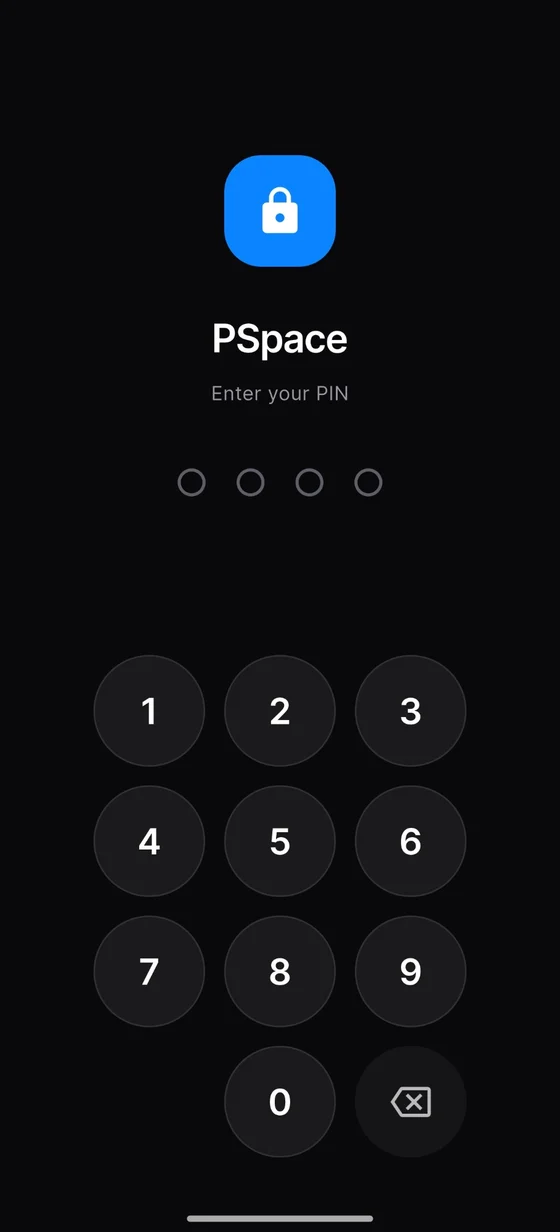
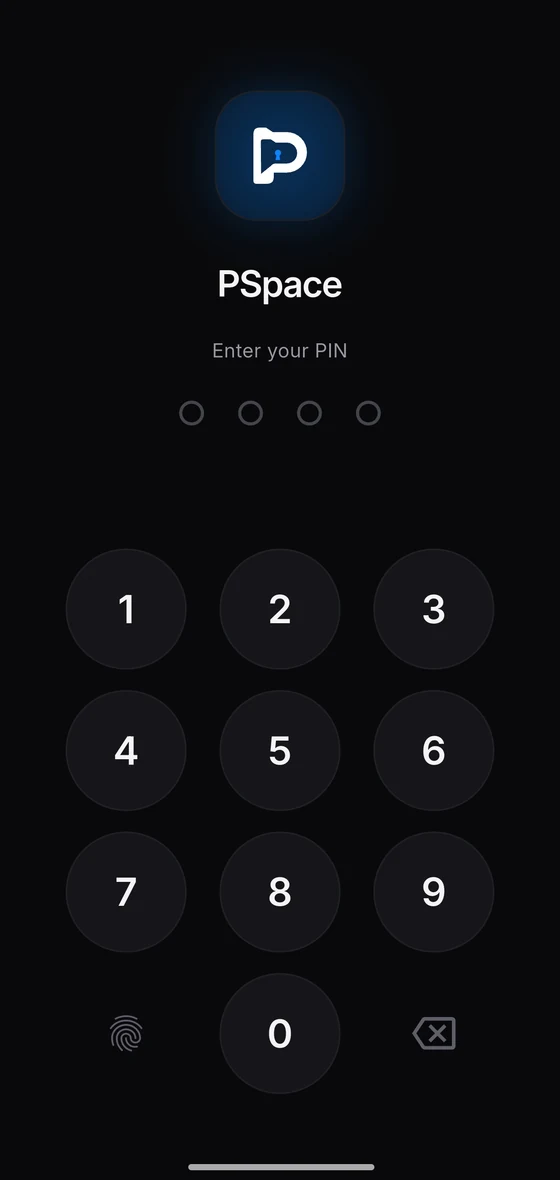
feat: add Google Play link and update PIN screen screenshot

diff --git a/lib/site.ts b/lib/site.ts
@@ -12,6 +12,6 @@ export const site = {
   // No public email on the site or in the app. Fill this in only if a contact
   // line should appear on the policy pages and in the footer.
   contactEmail: '',
-  // Fill in once the app is live on Google Play.
-  playStoreUrl: '',
+  // Google Play listing. Empty shows "Coming soon" instead of a button.
+  playStoreUrl: 'https://play.google.com/store/apps/details?id=com.pspace.app',
 };
